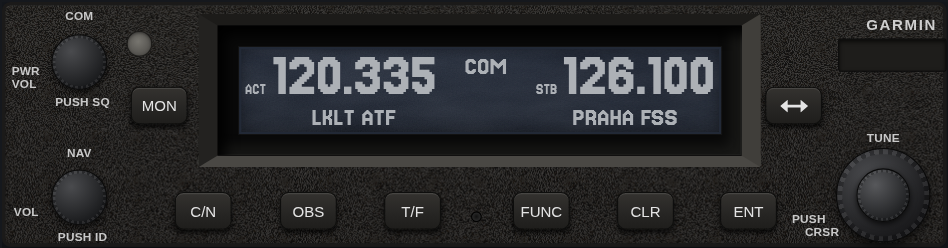
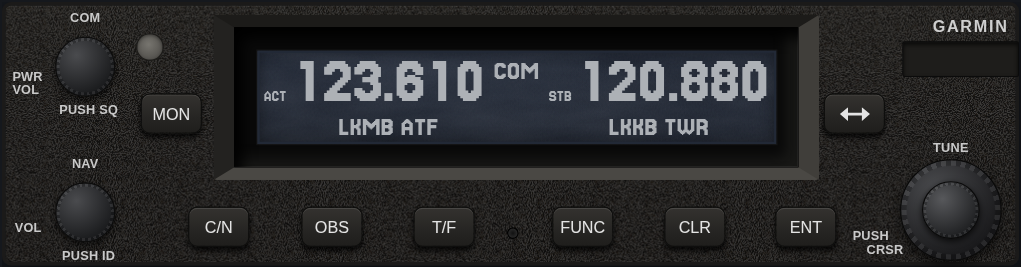
feat: preset GNC 255A COM to LKMB active and LKKB standby

diff --git a/sim/devices/gnc255/device.js b/sim/devices/gnc255/device.js
@@ -14,7 +14,7 @@ import { AIRPORTS, STATIONS, FIR, POSITIONS, DB_INFO, USB_DB_INFO } from '../../
 import { NAVAIDS } from '../../data/lk-nav.js';
 import { UNIT_INFO } from './info.js';
 
-export const PERSIST_KEY = 'gnc255-sim-v1';
+export const PERSIST_KEY = 'gnc255-sim-v2';
 export const FLIGHT_VAR = 5;            // magnetic variation used to turn the flown track into true (Czech ~5E)
 export const NAV_SIGNAL_NM = 150;       // simulator assumption: VOR/LOC usable within 150 NM (no altitude model)
 const LOC_FULL_DEG = 2.5;               // simulator assumption: localizer full-scale deflection
@@ -41,6 +41,8 @@ export const MENU = [
 export function defaultSettings() {
   return {
     ...comDefaults(DB_INFO),
+    act: 123610, stb: 120880,                // BOLESLAV RADIO (LKMB), KBELY TOWER (LKKB)
+    recent: [123610, 120880],
     nav: {
       act: 112600, stb: 112250,              // OKL Praha DVOR/DME, NER Neratovice VOR/DME
       recent: [112600, 112250],
